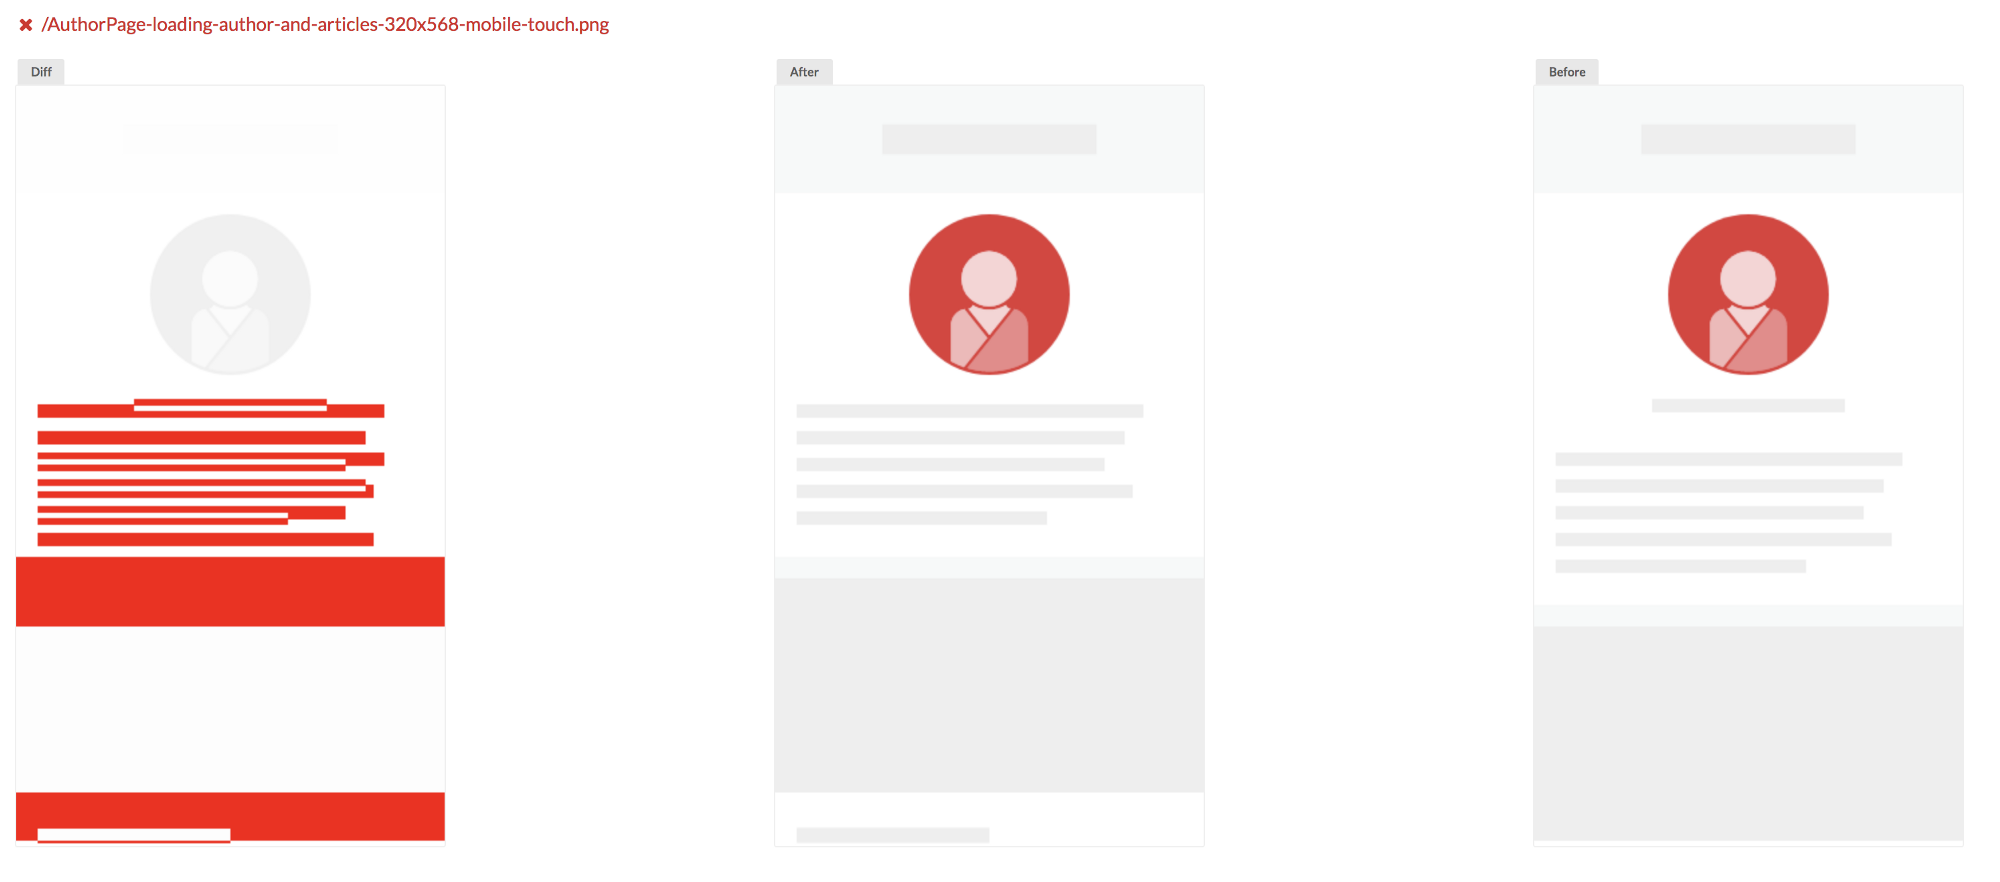
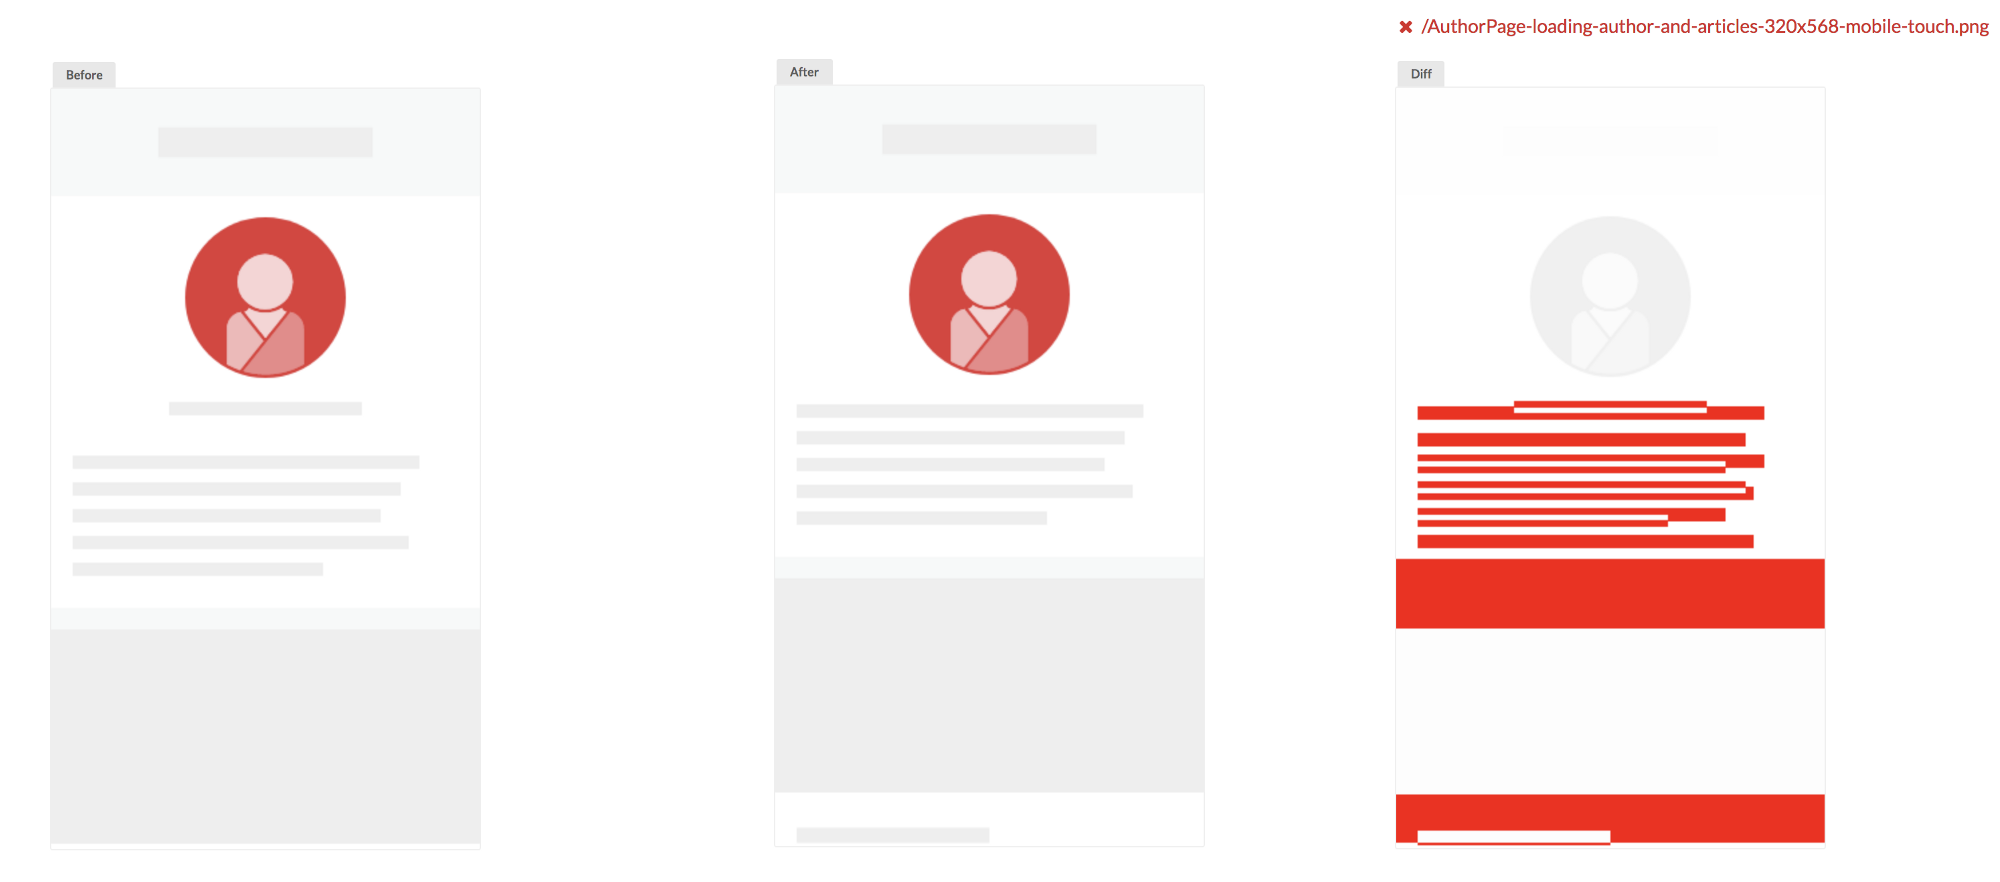
feat: make the reg-suit report slide clearer

diff --git a/src/presentation.js b/src/presentation.js
@@ -140,6 +140,11 @@ export default class Presentation extends React.Component {
         </Slide>
 
         <Slide bgColor="secondary">
+          <Layout>
+            <Fill><Text textSize="24px">Before</Text></Fill>
+            <Fill><Text textSize="24px">After</Text></Fill>
+            <Fill><Text textSize="24px">Diff</Text></Fill>
+          </Layout>
           <Image src={regSuitReport} />
         </Slide>
 
